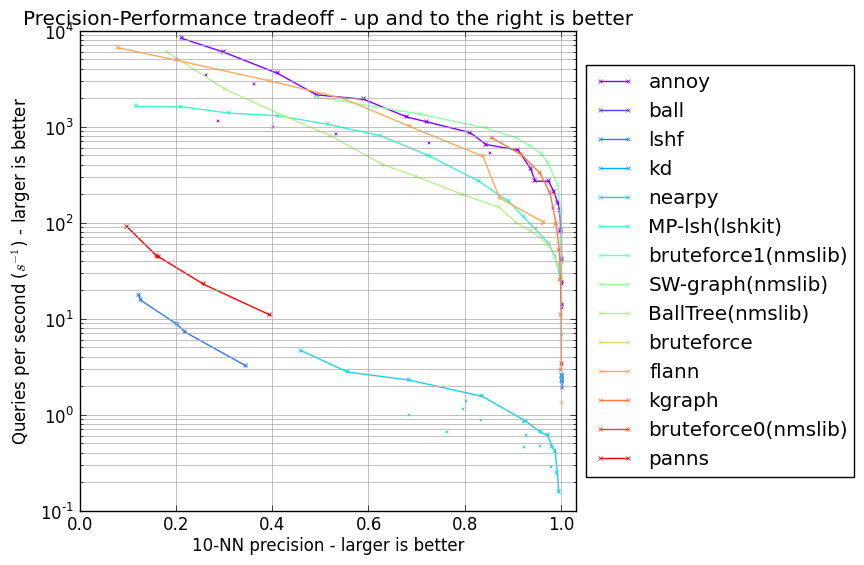
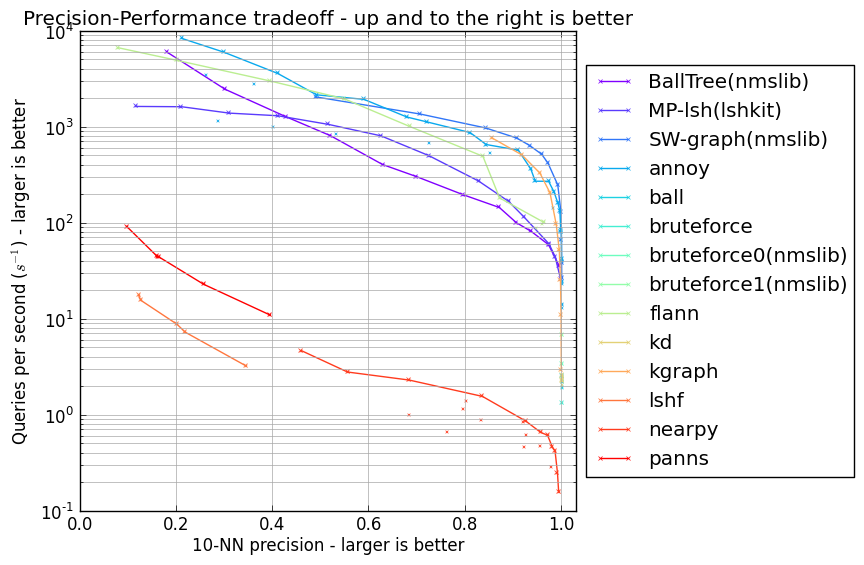
consistent order of algos

diff --git a/plot.py b/plot.py
@@ -20,7 +20,7 @@ colors = plt.cm.rainbow(numpy.linspace(0, 1, len(all_data)))
 handles = []
 labels = []
 
-for algo, color in zip(all_data.keys(), colors):
+for algo, color in zip(sorted(all_data.keys()), colors):
     data = all_data[algo]
     data.sort(key=lambda t: t[-2]) # sort by time
     ys = [1.0 / t[-2] for t in data] # queries per second
